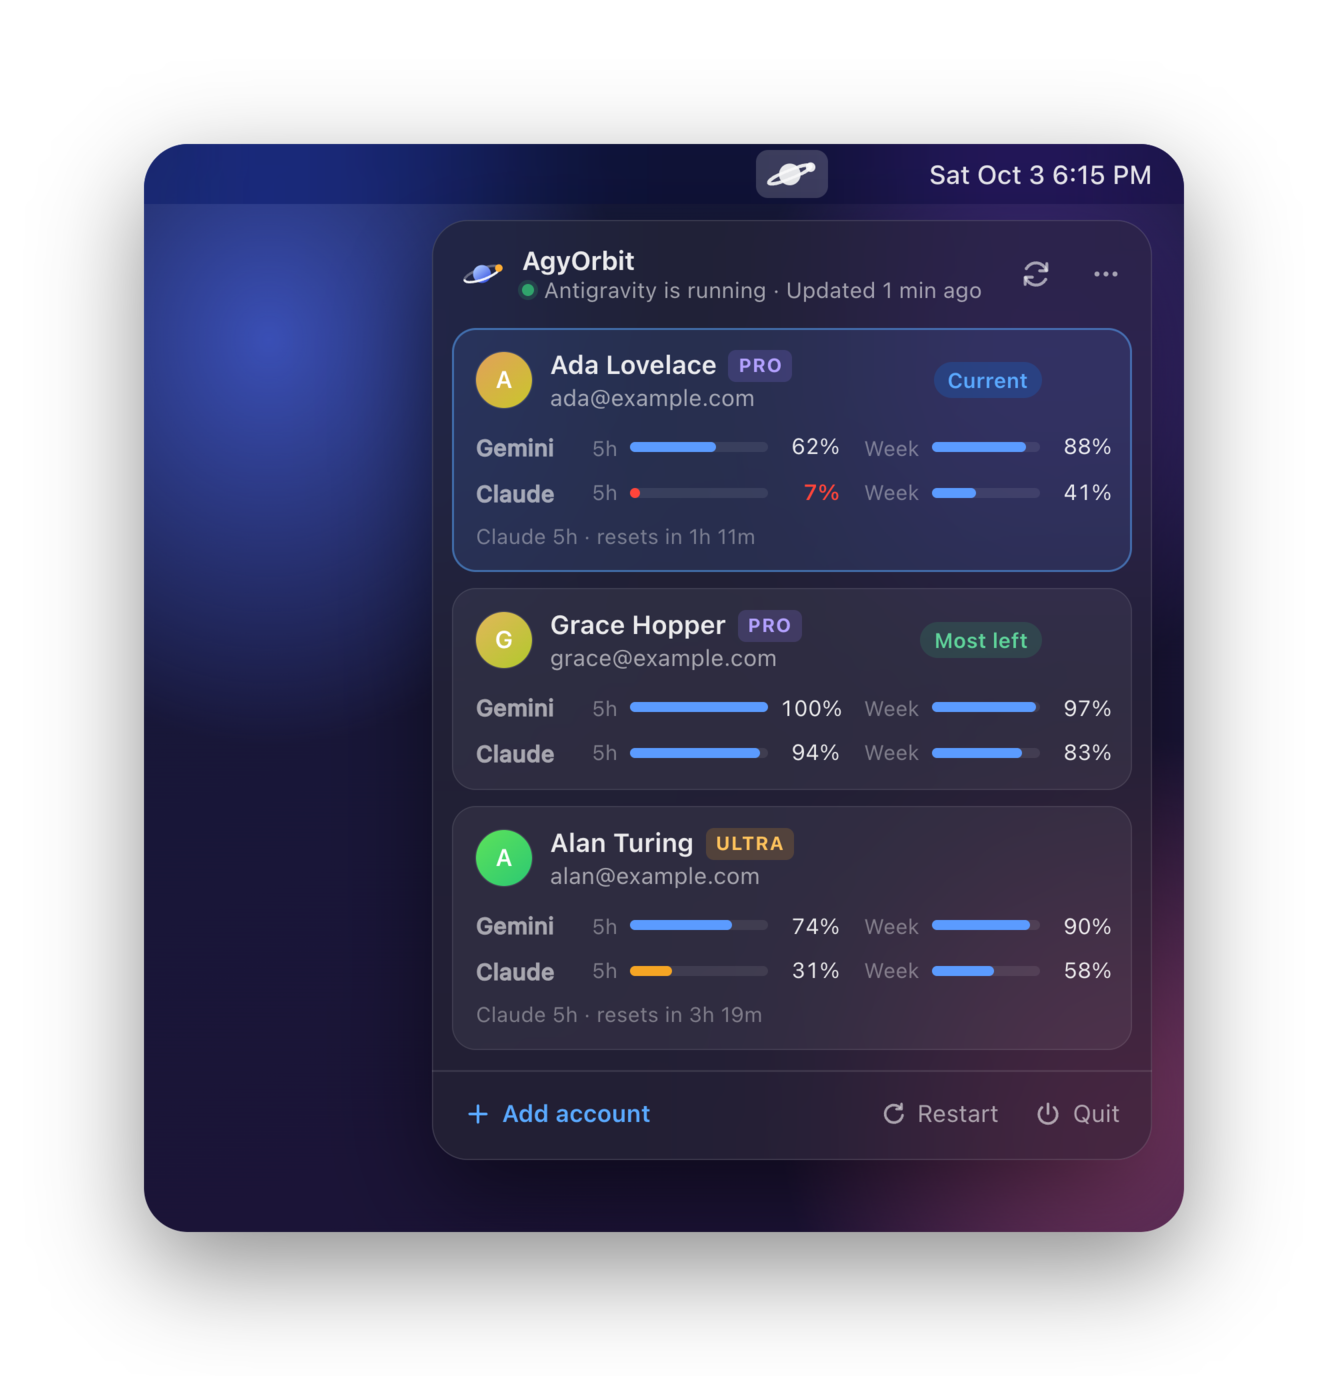
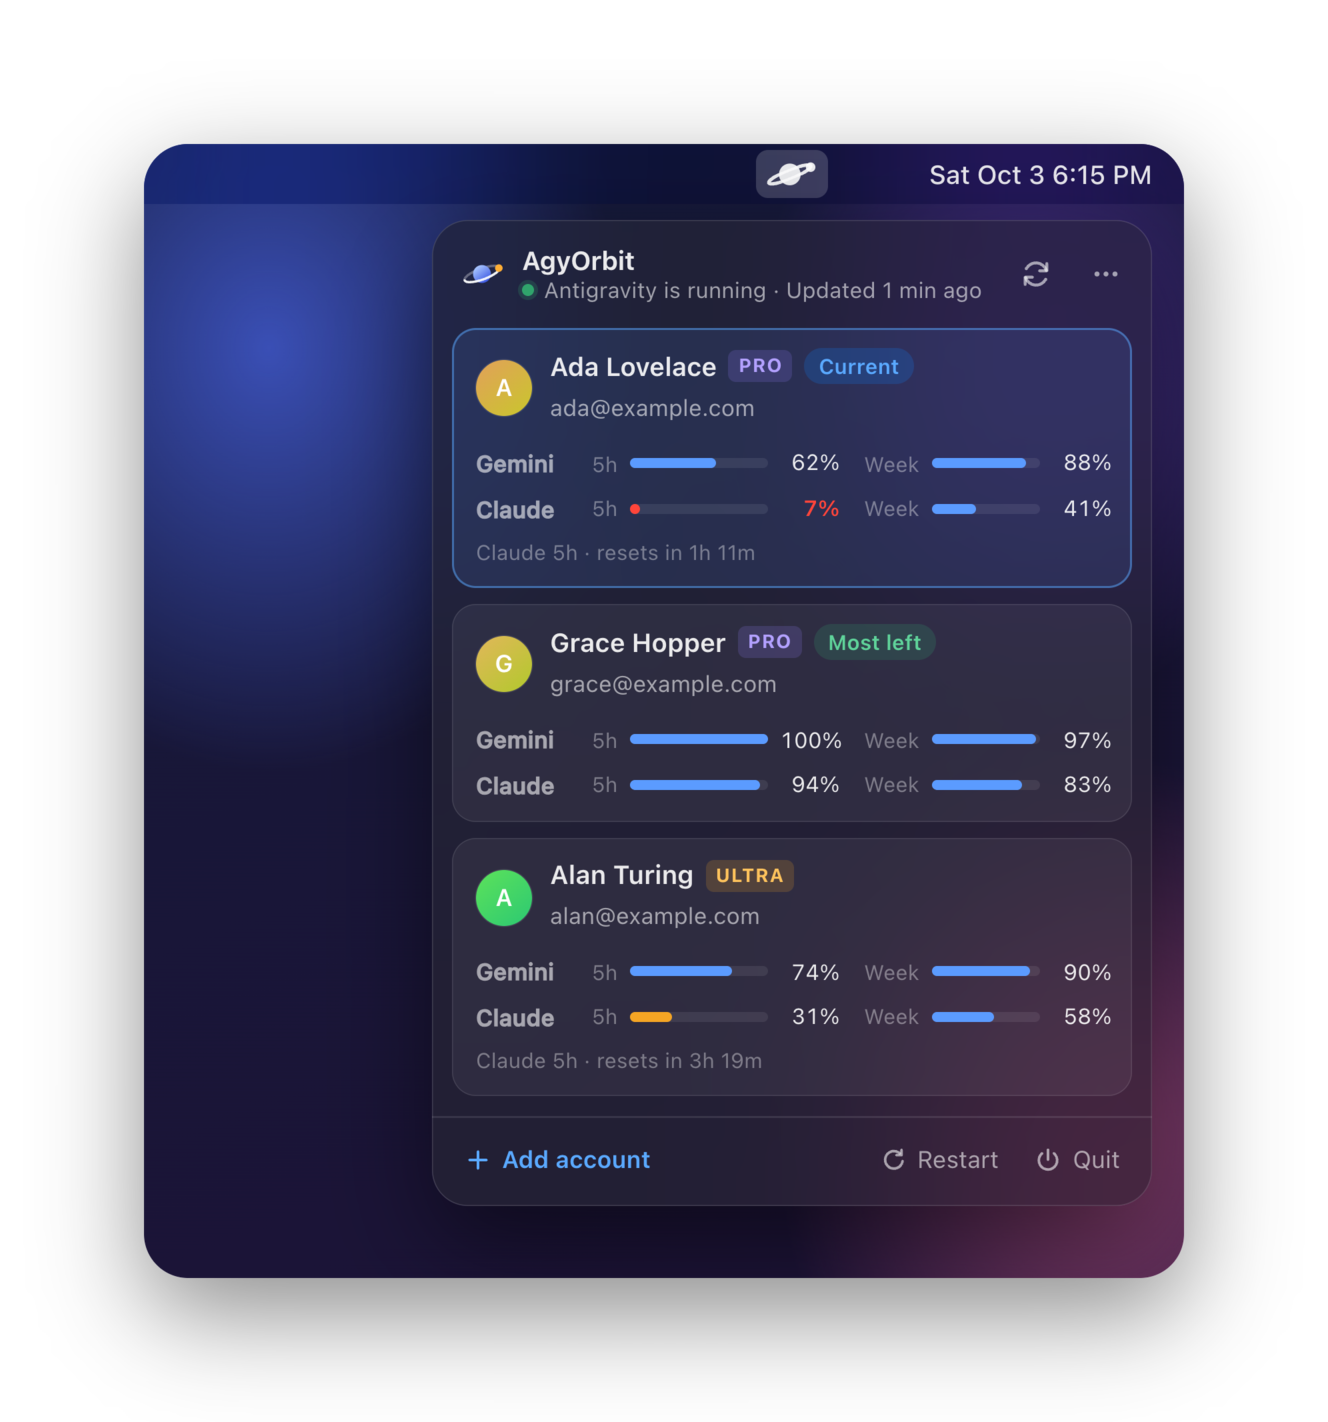
Separate the Switch button from account tags (#12)
* Separate the Switch button from account tags

* Refresh account screenshots and record layout verification

* Prepare release 0.1.3

diff --git a/src/components/account-card.tsx b/src/components/account-card.tsx
@@ -98,23 +98,25 @@ export function AccountCard({ account, active, best, disabled, onSwitch, onReaut
           <div className="card-name">
             <span className="truncate">{name}</span>
             <PlanBadge plan={account.plan} />
+            {active && <span className="tag tag-current">{t("account.current")}</span>}
+            {!active && best && <span className="tag tag-best">{t("account.best")}</span>}
           </div>
-          <div className="card-email truncate">{account.email}</div>
+          <div className="card-email-row">
+            <span className="card-email truncate">{account.email}</span>
+            {canSwitch && (
+              <button
+                type="button"
+                className="switch-btn"
+                onClick={(event) => {
+                  event.stopPropagation();
+                  onSwitch();
+                }}
+              >
+                {t("account.switch")}
+              </button>
+            )}
+          </div>
         </div>
-        {active && <span className="tag tag-current">{t("account.current")}</span>}
-        {!active && best && <span className="tag tag-best">{t("account.best")}</span>}
-        {canSwitch && (
-          <button
-            type="button"
-            className="switch-btn"
-            onClick={(event) => {
-              event.stopPropagation();
-              onSwitch();
-            }}
-          >
-            {t("account.switch")}
-          </button>
-        )}
         <button
           type="button"
           className="icon-btn card-more"

diff --git a/src/components/account-card.css b/src/components/account-card.css
@@ -25,7 +25,6 @@
 }
 
 .card-head {
-  position: relative;
   display: flex;
   align-items: center;
   gap: 9px;
@@ -45,7 +44,16 @@
   line-height: 17px;
 }
 
+.card-email-row {
+  display: flex;
+  align-items: center;
+  gap: 6px;
+  min-height: 22px;
+}
+
 .card-email {
+  flex: 1;
+  min-width: 0;
   font-size: 11.5px;
   line-height: 15px;
   color: var(--text-2);
@@ -58,6 +66,7 @@
   font-size: 10.5px;
   font-weight: 600;
   line-height: 14px;
+  white-space: nowrap;
 }
 
 .tag-current {
@@ -71,16 +80,13 @@
 }
 
 .switch-btn {
-  /* Floats over the tags so the hidden button never squeezes the name. */
-  position: absolute;
-  top: 50%;
-  right: 32px;
-  transform: translateY(-50%);
+  flex: none;
   height: 22px;
   padding: 0 10px;
   border-radius: 999px;
   font-size: 11.5px;
   font-weight: 600;
+  white-space: nowrap;
   color: #fff;
   background: var(--accent);
   opacity: 0;

diff --git a/docs/design.md b/docs/design.md
@@ -34,11 +34,13 @@ What happens and when is defined in [PRODUCT.md](../PRODUCT.md); this is how it 
 ## Account card
 
 - Avatar (Google photo, else initials), name, plan badge (`PRO` / `ULTRA` / `FREE`), email.
-- Tags: `Current` for the account in use, `Most left` for the account worth switching to.
+- Tags follow the name and plan badge: `Current` for the account in use, `Most left` for the account
+  worth switching to.
 - One row per quota group (Gemini, Claude) with the 5-hour and weekly windows side by side, each a meter
   and the share remaining. Colour changes only when it matters: amber below 35 %, red below 10 %.
 - When a window is low, a footnote says when it recovers; hovering any meter shows its reset time.
-- The Switch button appears on hover and floats over the tags, so it never squeezes the name.
+- The Switch button appears on hover or keyboard focus in reserved space beside the email, so it never
+  overlaps the name, plan or tags.
 
 ## Visual tokens
 

diff --git a/docs/status.md b/docs/status.md
@@ -26,6 +26,11 @@ verified.
 Each external fact these rely on, and the Antigravity version it was checked against, is listed in
 [antigravity-integration.md](antigravity-integration.md).
 
+## Verified with synthetic accounts
+
+- Account-card layout in Chrome on macOS, in English and Simplified Chinese, light and dark: tags and
+  the Switch button do not overlap, including long names and emails, hover and keyboard focus.
+
 ## Known limitations
 
 Accepted limitations are tracked as issues labeled

diff --git a/CHANGELOG.md b/CHANGELOG.md
@@ -6,6 +6,13 @@ All notable changes to AgyOrbit are documented here. The format follows
 
 ## [Unreleased]
 
+## [0.1.3] - 2026-10-04
+
+### Fixed
+
+- The Switch button no longer overlaps the Most left tag. Account tags follow the name and plan badge,
+  and the button has its own space beside the email.
+
 ## [0.1.2] - 2026-10-03
 
 ### Fixed
